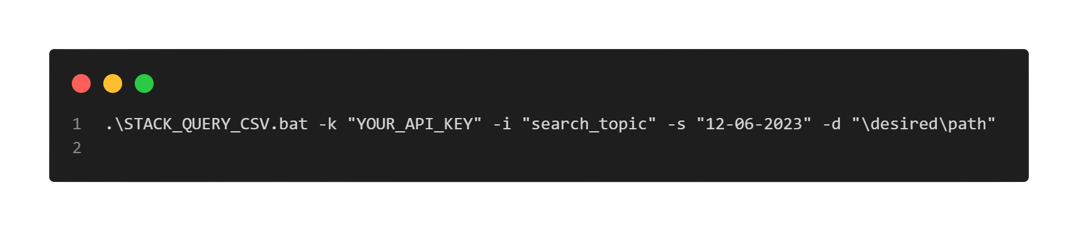
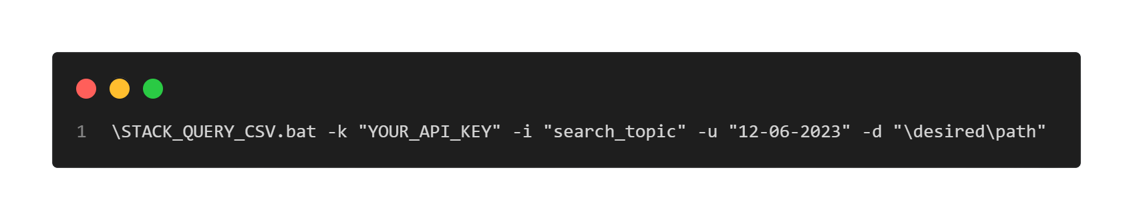
To supplement the warnings generated by the console

diff --git a/STACK_QUERY_CSV/STACK_QUERY_CSV.py b/STACK_QUERY_CSV/STACK_QUERY_CSV.py
@@ -11,7 +11,7 @@ parser = argparse.ArgumentParser(description='Get and store StackOverflow questi
 # Add the arguments
 parser.add_argument('-k', '--key', required=True, help='StackExchange API Key')
 parser.add_argument('-i', '--intitle', required=True, help='StackOverflow Search Title')
-parser.add_argument('-s', '--upper-date', required=True, help='Upper date to filter discussions (DD-MM-YYYY)')
+parser.add_argument('-u', '--upper-date', required=True, help='Upper date to filter discussions (DD-MM-YYYY)')
 parser.add_argument('-d', '--directory', required=True, help='Directory to save CSV files')
 
 # Parse the command line arguments

diff --git a/README.md b/README.md
@@ -72,7 +72,7 @@ To execute the program, use one of the 3 ways the program can be execute:
    - **For STACK_QUERY_CSV:**
       ![comando de ejecucion](STACK_QUERY_CSV/commands_to_execute/command_execute_py_CSV.png)
 
-         python STACK_QUERY_CSV.py -k "YOUR_API_KEY" -i "search_topic" -s "12-06-2023" -d "\desired\path"
+         python STACK_QUERY_CSV.py -k "YOUR_API_KEY" -i "search_topic" -u "12-06-2023" -d "\desired\path"
 
 2. Alternatively, you can use the provided batch file to execute the program. Open the terminal or command prompt and run the following command:
 
@@ -84,7 +84,7 @@ To execute the program, use one of the 3 ways the program can be execute:
    - **For STACK_QUERY_CSV:**
       ![comando de ejecucion](STACK_QUERY_CSV/commands_to_execute/command_execute_bat_CSV.png)
 
-         .\STACK_QUERY_CSV.bat -k "YOUR_API_KEY" -i "search_topic" -s "12-06-2023" -d "\desired\path"
+         .\STACK_QUERY_CSV.bat -k "YOUR_API_KEY" -i "search_topic" -u "12-06-2023" -d "\desired\path"
 
 3. For Windows users, you can directly run the provided executable file. Simply double-click on the "STACK_QUERY_*.exe" file to execute the program:
 
